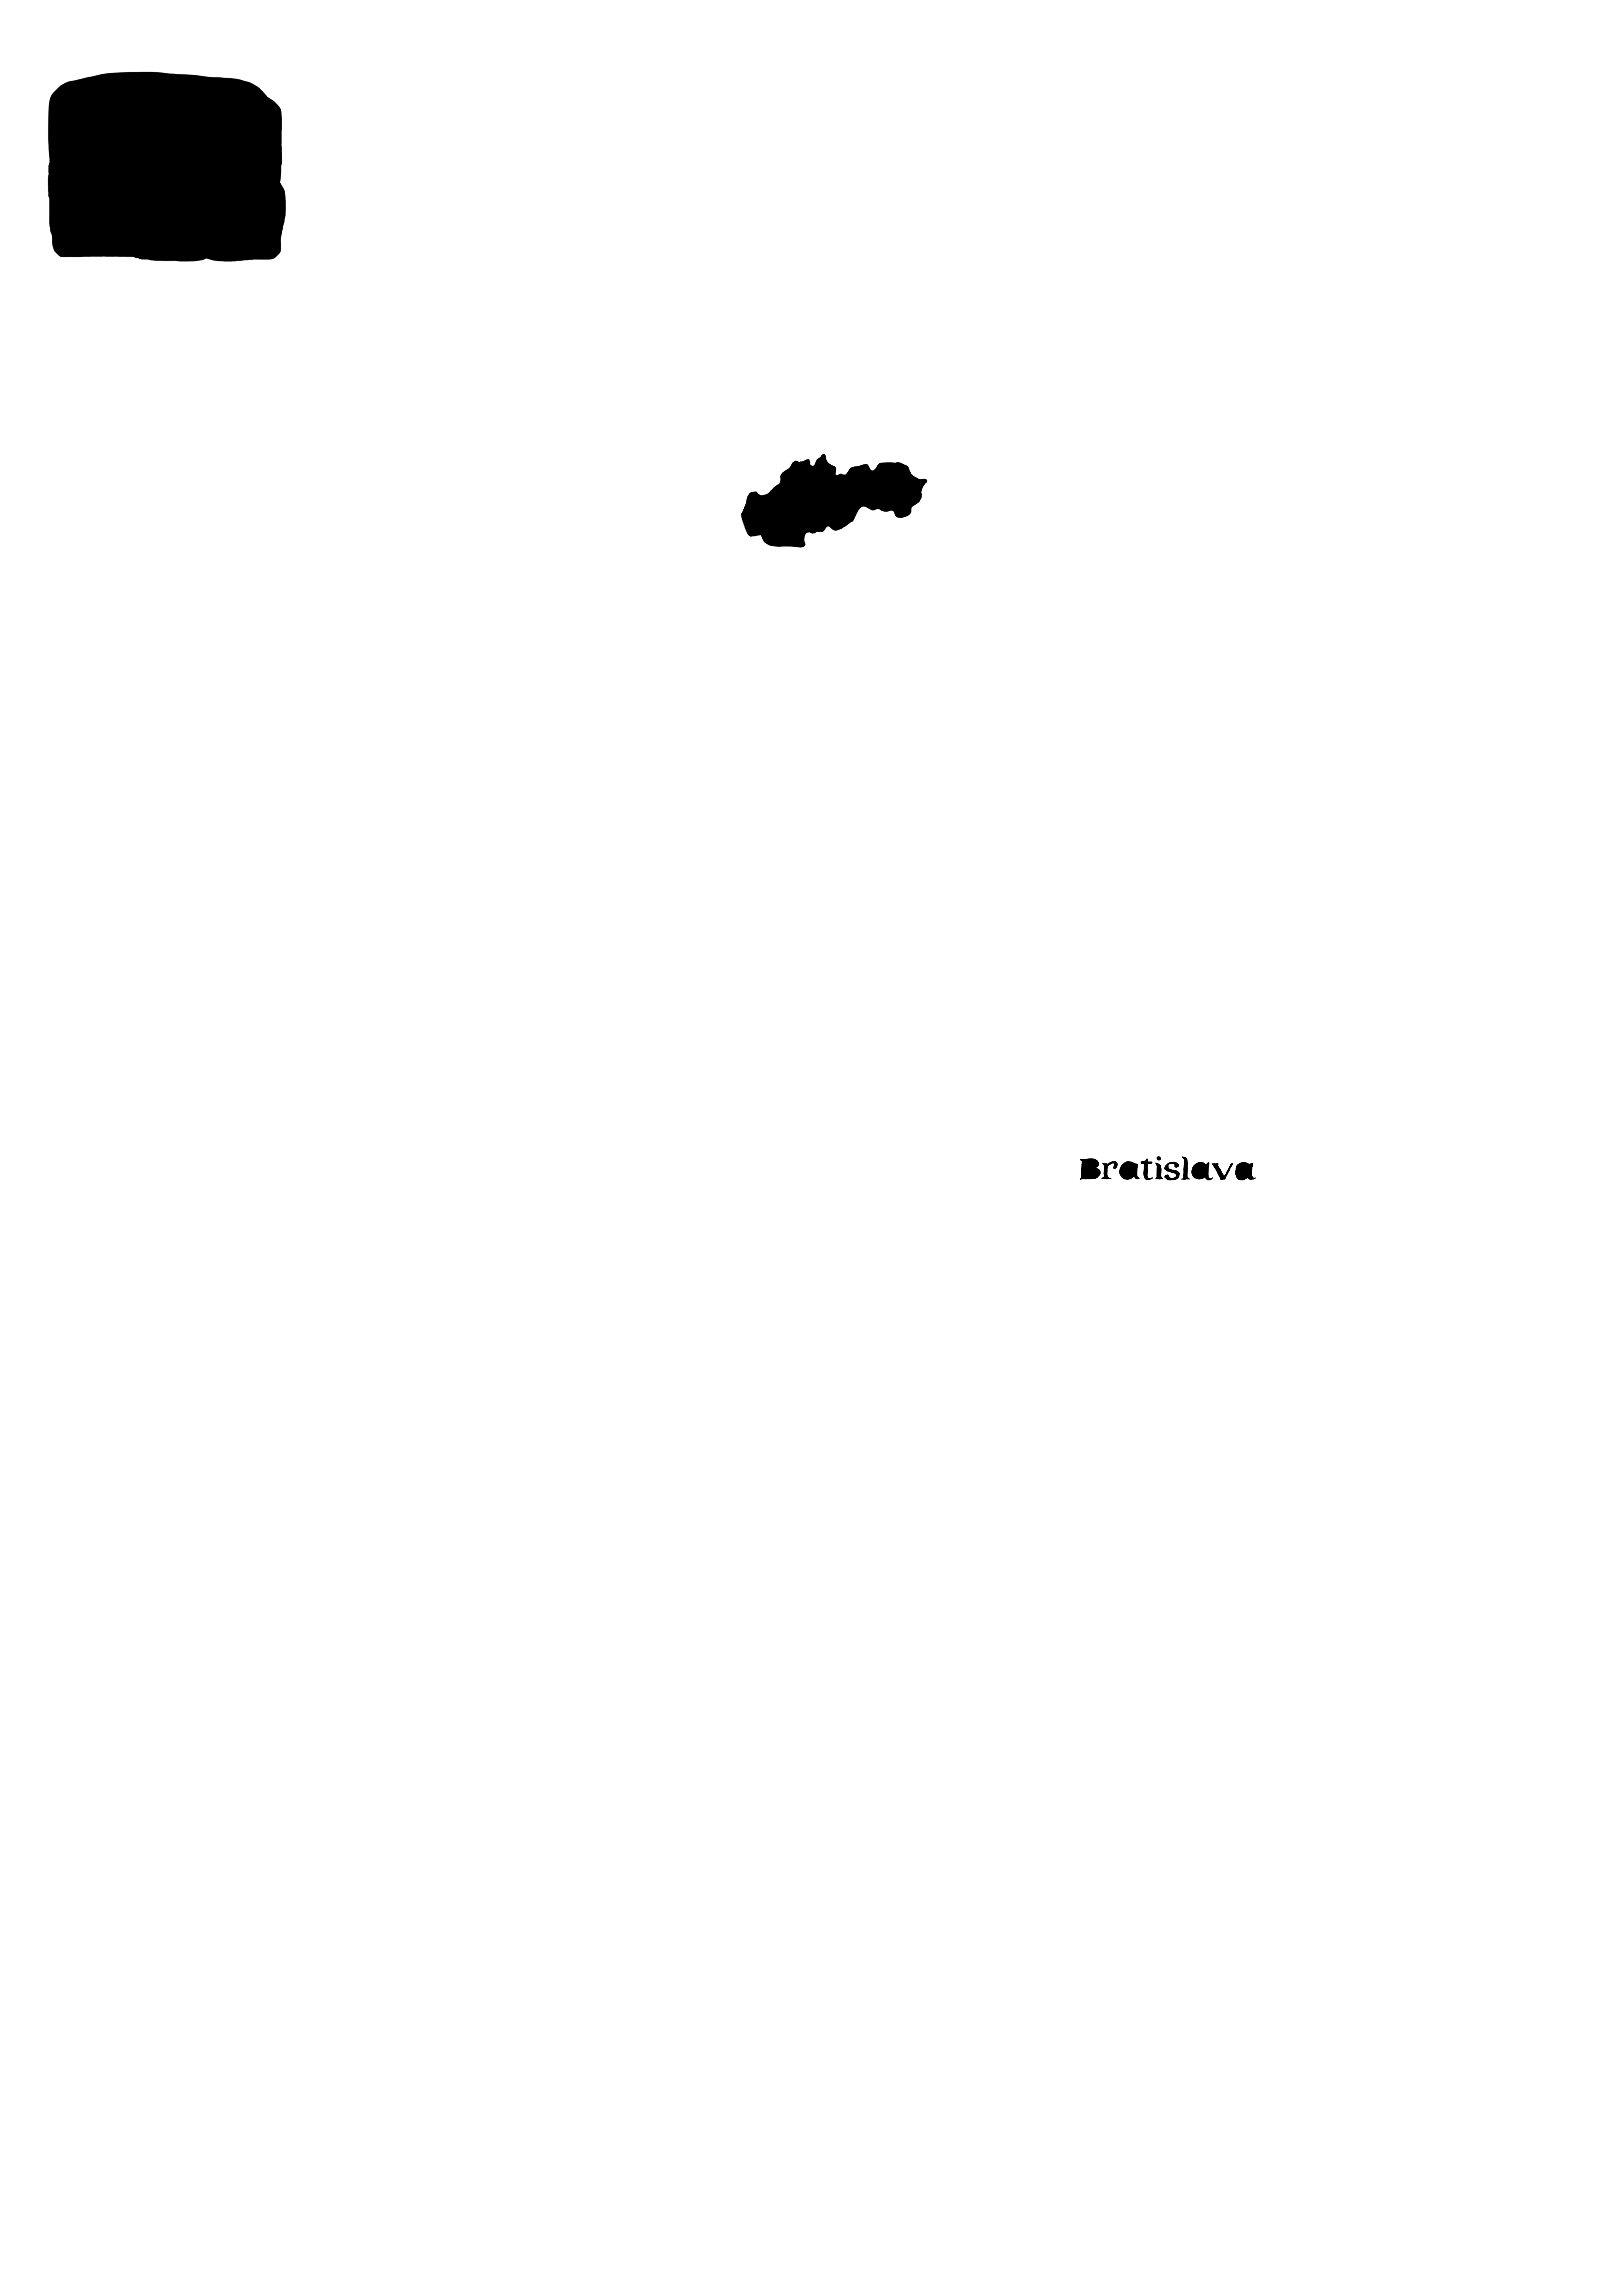
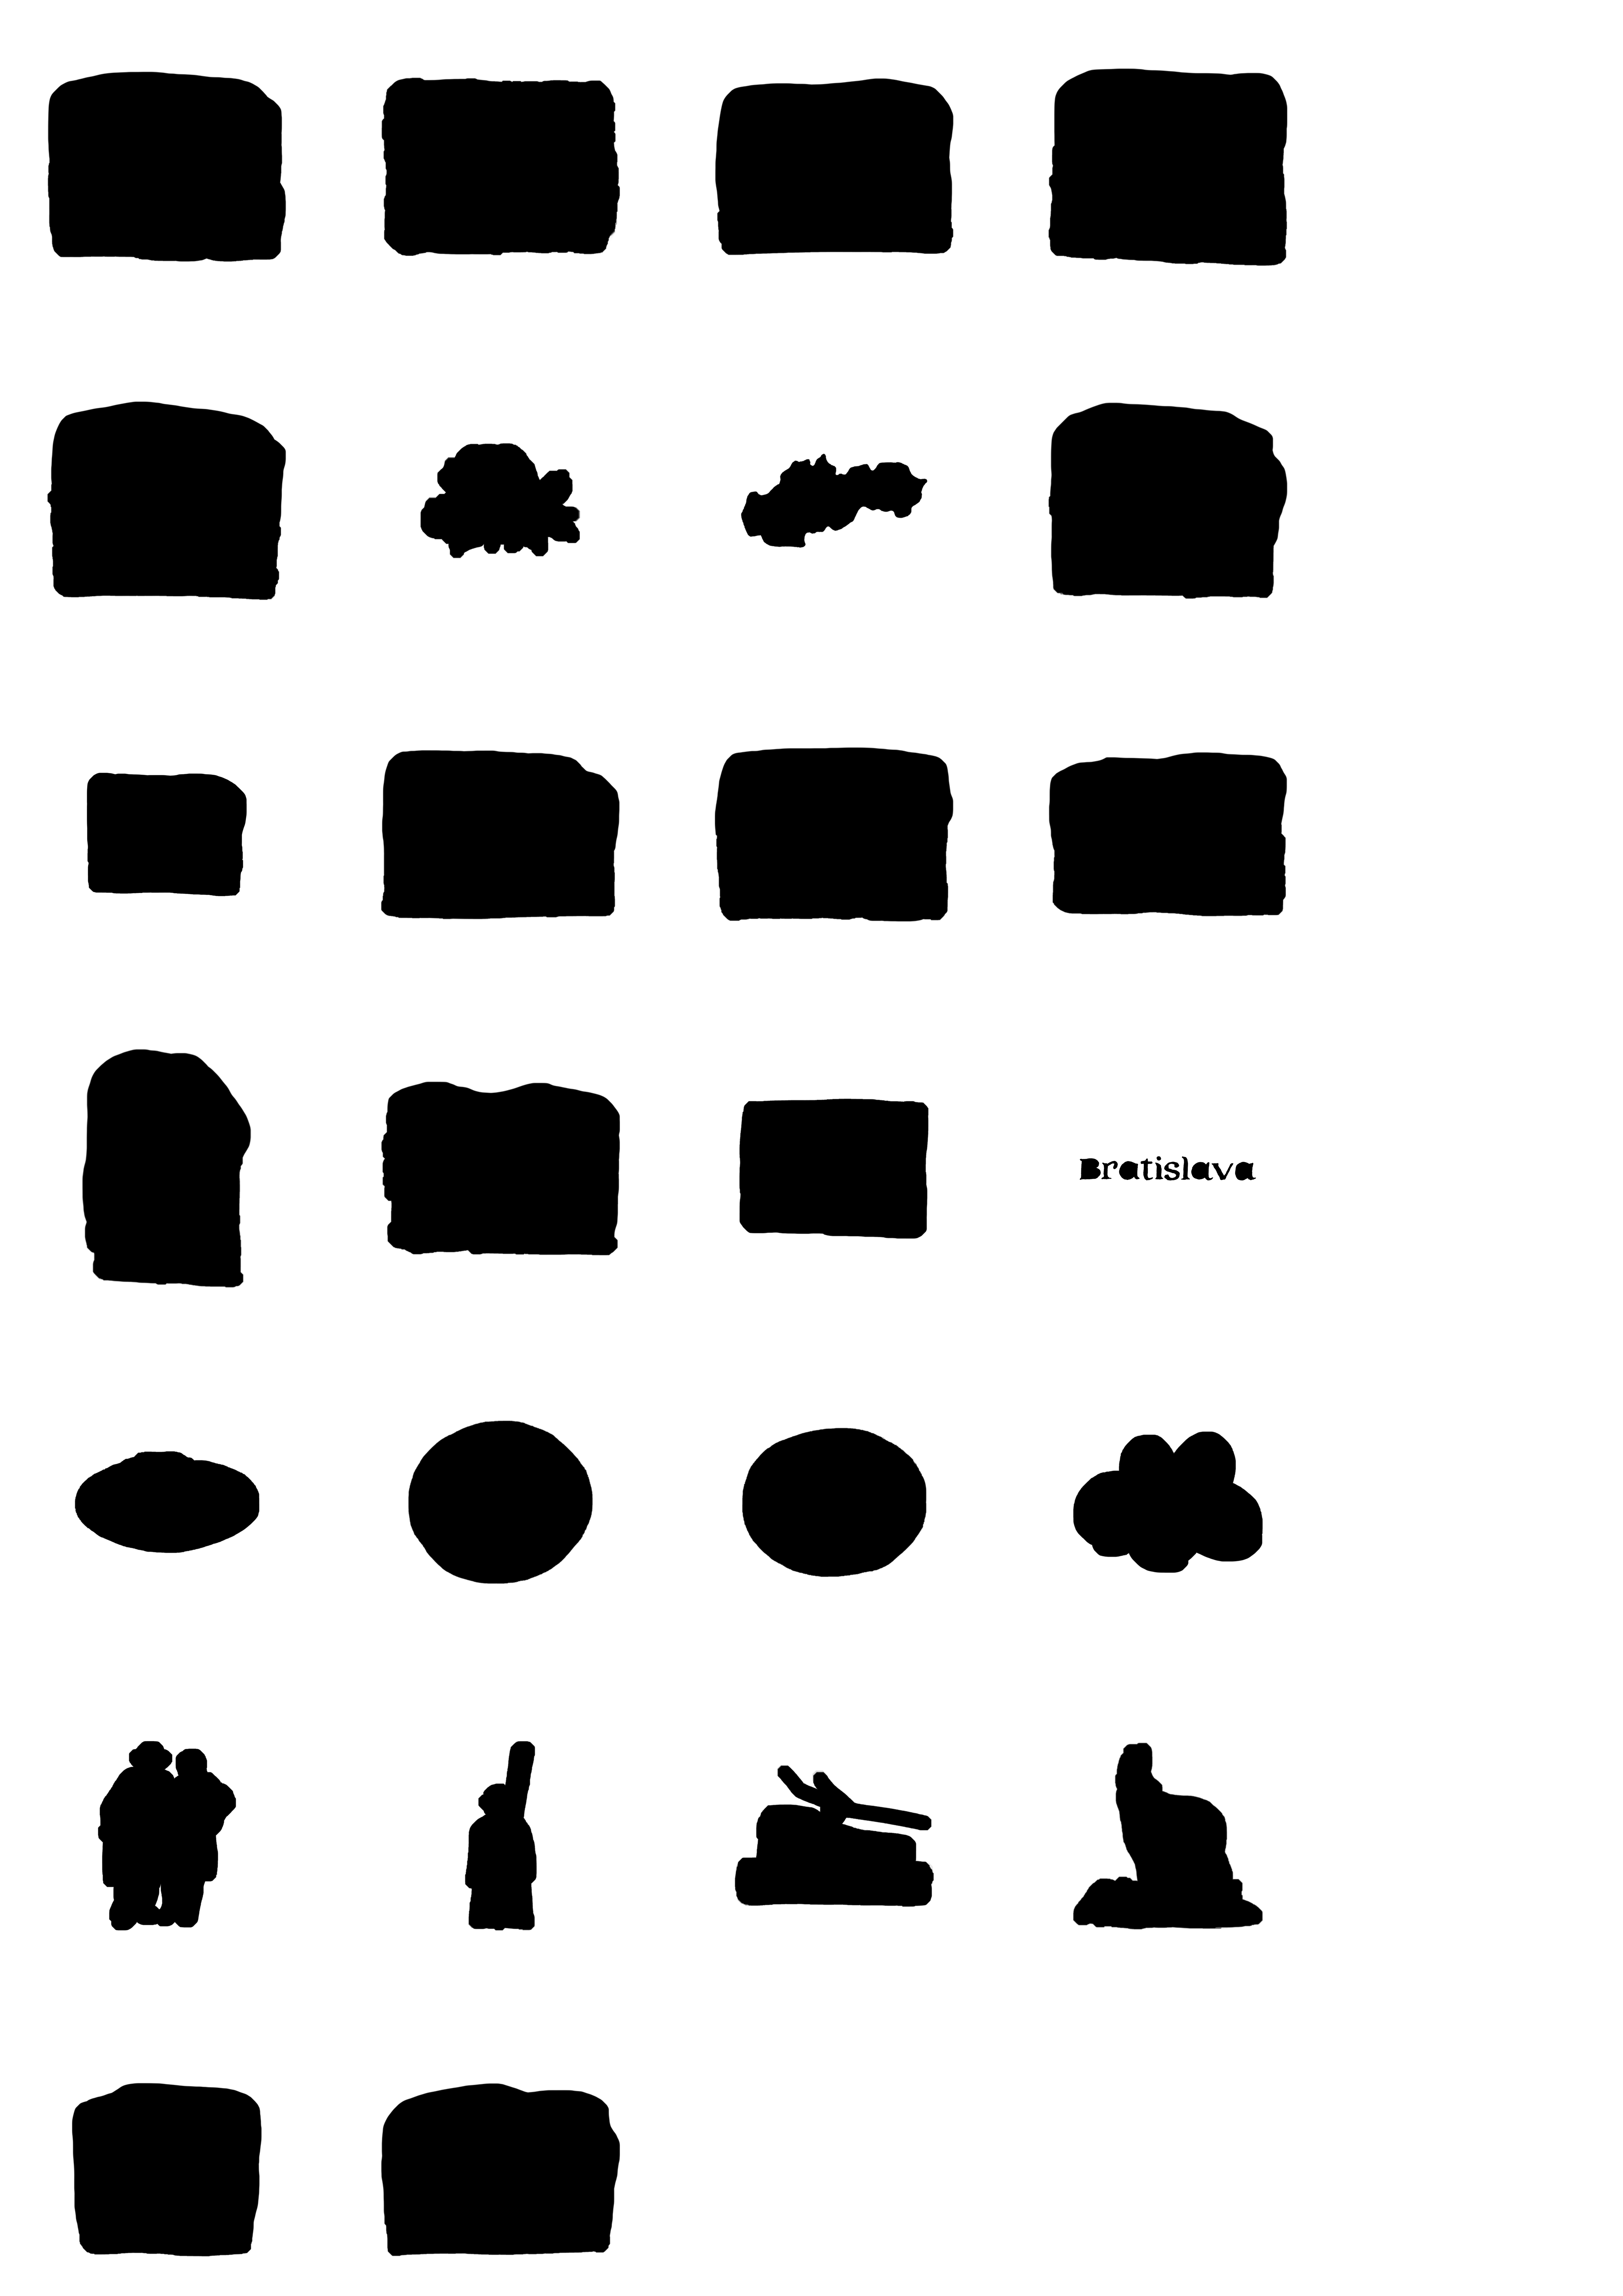
Fix silhouette dropping 23/24 elements: restore sub-group visibility
exportElementPngs isolates each element by hiding its sibling sub-groups, but
the restore block only restored top-level layers — leaving 23 of 24 element
groups hidden when createSilhouetteLayer ran downstream. The silhouette merge
then captured only the last-shown group (Devín Castle) plus the two loose,
caption-less elements, producing a near-empty 3-shape silhouette and a useless
trace (10 unmatched paths in Step 6).

Snapshot element sub-group visibility before the isolation loop and restore it
after, alongside the existing top-level restore.

Regenerate the step6-silhouette.png fixture (now all ~24 element shapes, 451K
vs 158K) and the PSAI golden. step6-elements.txt is unchanged — element bounds
were always correct; only the silhouette merge was broken.

diff --git a/pipelines/PSAI_BuildAndExportCutlines.jsx b/pipelines/PSAI_BuildAndExportCutlines.jsx
@@ -249,6 +249,16 @@ function exportElementPngs(doc) {
     }
     elementsGroup.visible = true;
 
+    // Snapshot element sub-group visibility — the isolation loop below hides
+    // siblings to export each element alone, and these must be restored after
+    // (the silhouette builder downstream merges the whole Elements group and
+    // depends on every element group being visible).
+    var subVis = [];
+    var sv;
+    for (sv = 0; sv < elementsGroup.layerSets.length; sv++) {
+        subVis[sv] = elementsGroup.layerSets[sv].visible;
+    }
+
     var count = 0;
     var j, k, grp, parsed, safeName, pngPath, dup;
 
@@ -294,7 +304,12 @@ function exportElementPngs(doc) {
         app.activeDocument = doc;
     }
 
-    // Restore visibilities.
+    // Restore element sub-group visibility (hidden during per-element isolation).
+    for (sv = 0; sv < elementsGroup.layerSets.length; sv++) {
+        elementsGroup.layerSets[sv].visible = subVis[sv];
+    }
+
+    // Restore top-level layer visibilities.
     for (i = 0; i < topLayers.length; i++) {
         topLayers[i].visible = topVis[i];
     }